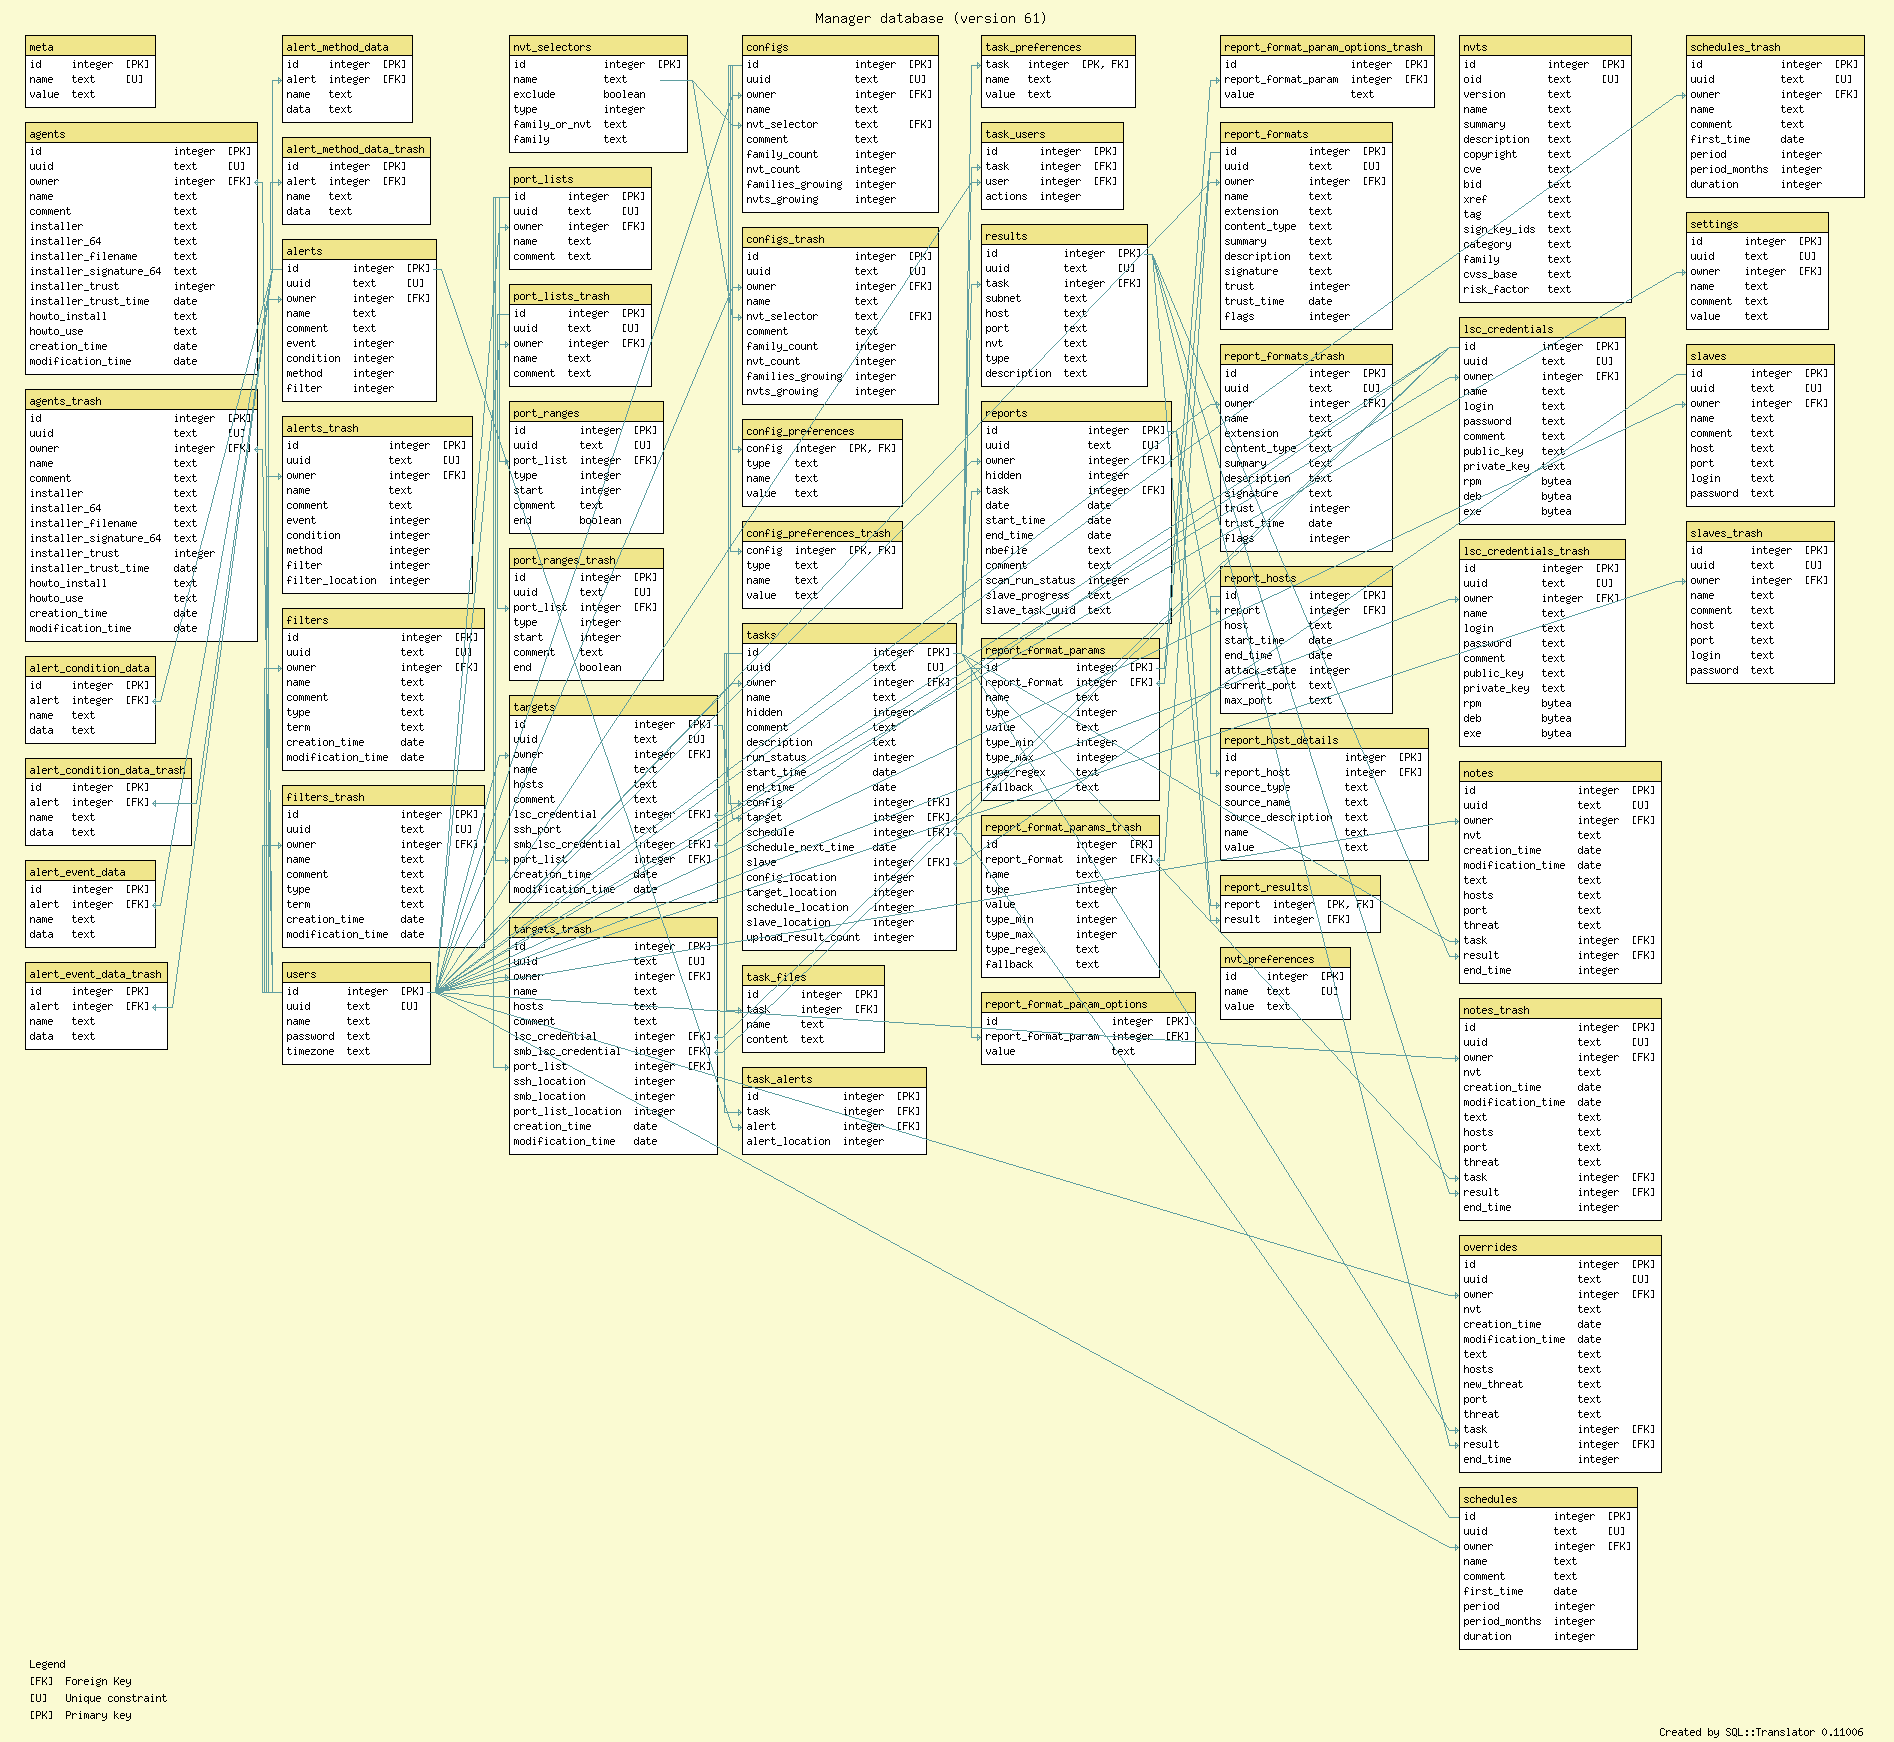
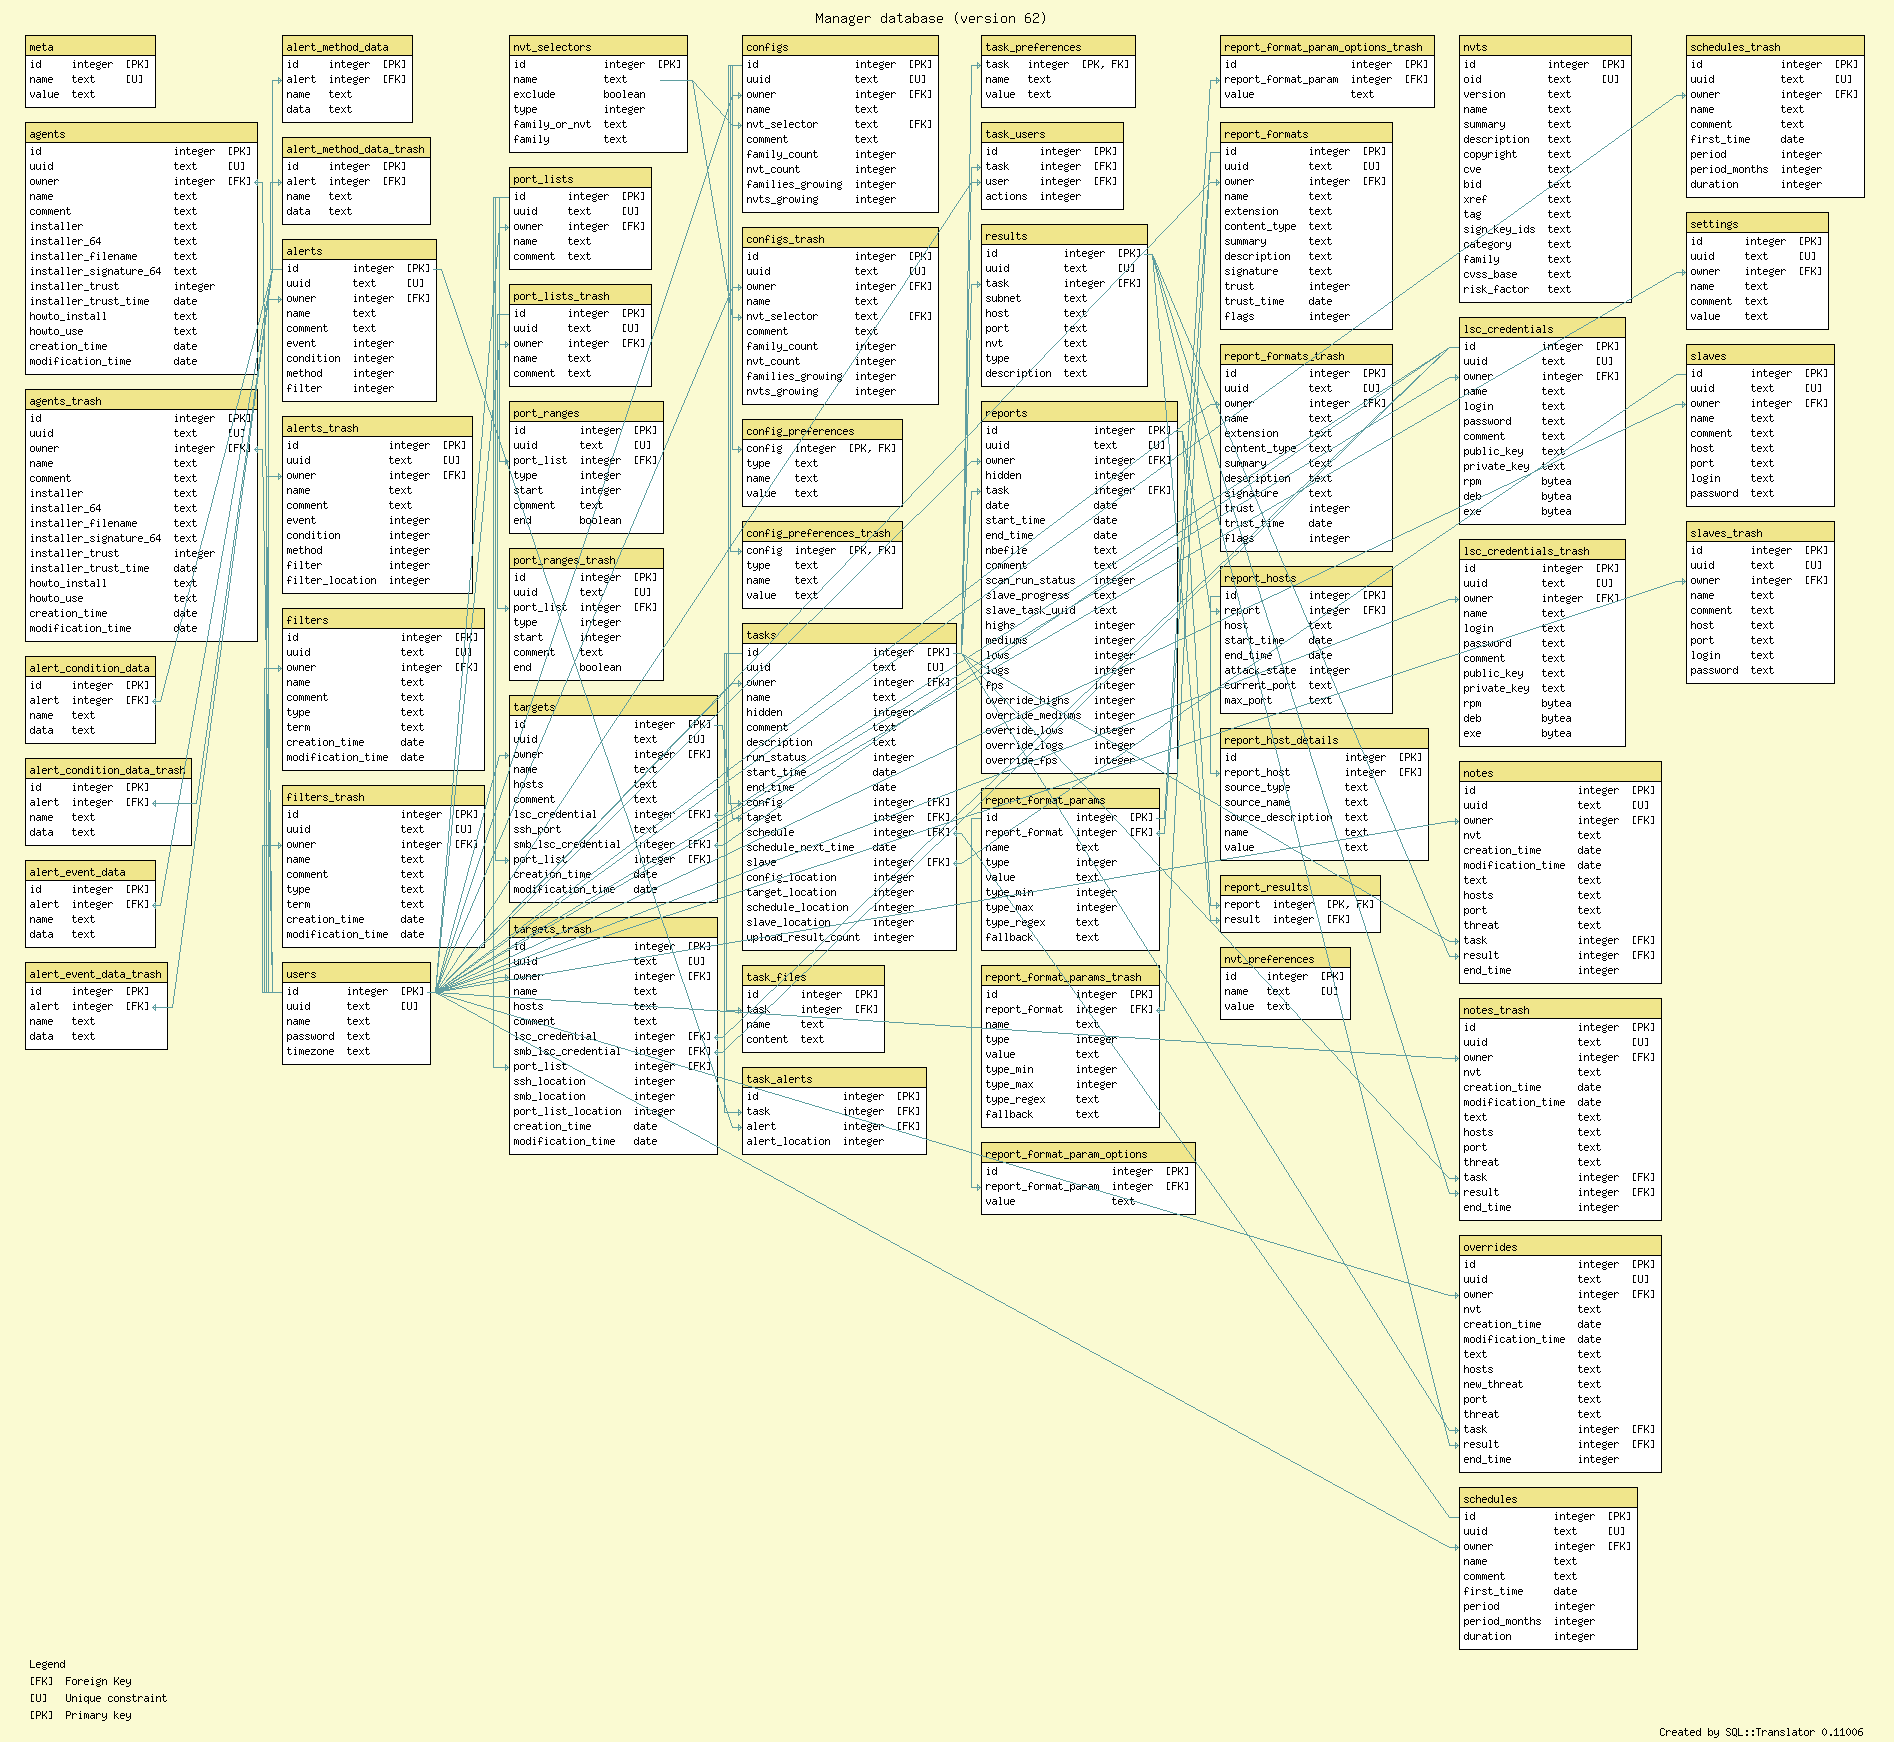
Add simple report count caching.  Hence increase database version to 62. 	Add database migration from version 61 to 62.
* CMakeLists.txt (OPENVASMD_DATABASE_VERSION): Increase to 62.

	* src/manage_sql.c (create_tables): Add cache columns to reports.
	(migrate_61_to_62): New function.
	(migrators): Add migrate_61_to_62.
	(init_manage, make_report): Init report cache columns.
	(reports_clear_count_cache, report_cache_counts): New functions.
	(set_scan_end_time_otp): Cache report counts.
	(report_counts_id_filt): In the "all" case try to read the counts from
	the cache, and store counts in cache after counting.
	(create_override, modify_override): Clear cached override counts in
	report.

	* doc/db_postgres.sql (reports): Add cache fields.

	* doc/db.png: Update from source.

git-svn-id: svn+ssh://scm.wald.intevation.org/openvas/trunk/openvas-manager@14289 423fd1db-d629-0410-8442-d21db03e70f4

Changed region(s): [[0.4984, 0.248, 0.6542, 0.713]]

diff --git a/src/manage_sql.c b/src/manage_sql.c
@@ -1297,7 +1297,7 @@ create_tables ()
   sql ("CREATE TABLE IF NOT EXISTS report_results (id INTEGER PRIMARY KEY, report INTEGER, result INTEGER);");
   sql ("CREATE INDEX IF NOT EXISTS report_results_by_report ON report_results (report);");
   sql ("CREATE INDEX IF NOT EXISTS report_results_by_result ON report_results (result);");
-  sql ("CREATE TABLE IF NOT EXISTS reports (id INTEGER PRIMARY KEY, uuid, owner INTEGER, hidden INTEGER, task INTEGER, date INTEGER, start_time, end_time, nbefile, comment, scan_run_status INTEGER, slave_progress, slave_task_uuid);");
+  sql ("CREATE TABLE IF NOT EXISTS reports (id INTEGER PRIMARY KEY, uuid, owner INTEGER, hidden INTEGER, task INTEGER, date INTEGER, start_time, end_time, nbefile, comment, scan_run_status INTEGER, slave_progress, slave_task_uuid, highs, mediums, lows, logs, fps, override_highs, override_mediums, override_lows, override_logs, override_fps);");
   sql ("CREATE TABLE IF NOT EXISTS results (id INTEGER PRIMARY KEY, uuid, task INTEGER, subnet, host, port, nvt, type, description)");
   sql ("CREATE INDEX IF NOT EXISTS results_by_host ON results (host);");
   sql ("CREATE INDEX IF NOT EXISTS results_by_task ON results (task);");
@@ -6031,6 +6031,52 @@ migrate_60_to_61 ()
 }
 
 /**
+ * @brief Migrate the database from version 61 to version 62.
+ *
+ * @return 0 success, -1 error.
+ */
+static int
+migrate_61_to_62 ()
+{
+  sql ("BEGIN EXCLUSIVE;");
+
+  /* Ensure that the database is currently version 61. */
+
+  if (manage_db_version () != 61)
+    {
+      sql ("ROLLBACK;");
+      return -1;
+    }
+
+  /* Update the database. */
+
+  /** @todo ROLLBACK on failure. */
+
+  /* The reports table got count cache columns. */
+
+  sql ("ALTER TABLE reports ADD COLUMN highs;");
+  sql ("ALTER TABLE reports ADD COLUMN mediums;");
+  sql ("ALTER TABLE reports ADD COLUMN lows;");
+  sql ("ALTER TABLE reports ADD COLUMN logs;");
+  sql ("ALTER TABLE reports ADD COLUMN fps;");
+  sql ("ALTER TABLE reports ADD COLUMN override_highs;");
+  sql ("ALTER TABLE reports ADD COLUMN override_mediums;");
+  sql ("ALTER TABLE reports ADD COLUMN override_lows;");
+  sql ("ALTER TABLE reports ADD COLUMN override_logs;");
+  sql ("ALTER TABLE reports ADD COLUMN override_fps;");
+
+  sql ("UPDATE reports SET highs = -1, override_highs = -1;");
+
+  /* Set the database version to 62. */
+
+  set_db_version (62);
+
+  sql ("COMMIT;");
+
+  return 0;
+}
+
+/**
  * @brief Array of database version migrators.
  */
 static migrator_t database_migrators[]
@@ -6096,6 +6142,7 @@ static migrator_t database_migrators[]
     {59, migrate_58_to_59},
     {60, migrate_59_to_60},
     {61, migrate_60_to_61},
+    {62, migrate_61_to_62},
     /* End marker. */
     {-1, NULL}};
 
@@ -10595,11 +10642,11 @@ init_manage (GSList *log_config, int nvt_cache_mode, const gchar *database)
         {
           sql ("INSERT into reports (uuid, owner, hidden, task, comment,"
                " start_time, end_time, scan_run_status, slave_progress,"
-               " slave_task_uuid)"
+               " slave_task_uuid, highs, override_highs)"
                " VALUES ('343435d6-91b0-11de-9478-ffd71f4c6f30', NULL, 1, %llu,"
                " 'This is an example report for the help pages.',"
                " 1251236905, 1251237136,"
-               " %u, 0, '');",
+               " %u, 0, '', -1, -1);",
                task,
                TASK_STATUS_DONE);
           report = sqlite3_last_insert_rowid (task_db);
@@ -13243,6 +13290,35 @@ prognostic_report_result_count (report_host_t report_host,
 /* Reports. */
 
 /**
+ * @brief Clear cached report count.
+ *
+ * @param[in]  override  Flag for override or regular case.
+ */
+void
+reports_clear_count_cache (int override)
+{
+  if (override)
+    sql ("UPDATE reports SET override_highs = -1;");
+  else
+    sql ("UPDATE reports SET highs = -1;");
+}
+
+/**
+ * @brief Cached report counts.
+ *
+ * @param[in]  report  Report.
+ */
+void
+report_cache_counts (report_t report)
+{
+  int debugs, holes, infos, logs, warnings, false_positives;
+  report_counts_id (report, &debugs, &holes, &infos, &logs, &warnings,
+                    &false_positives, 0, NULL, 0);
+  report_counts_id (report, &debugs, &holes, &infos, &logs, &warnings,
+                    &false_positives, 0, NULL, 0);
+}
+
+/**
  * @brief Make a report.
  *
  * @param[in]  task    The task associated with the report.
@@ -13259,10 +13335,11 @@ make_report (task_t task, const char* uuid, task_status_t status)
   assert (current_credentials.uuid);
 
   sql ("INSERT into reports (uuid, owner, hidden, task, date, nbefile, comment,"
-       " scan_run_status, slave_progress, slave_task_uuid)"
+       " scan_run_status, slave_progress, slave_task_uuid, highs,"
+       " override_highs)"
        " VALUES ('%s',"
        " (SELECT ROWID FROM users WHERE users.uuid = '%s'),"
-       " 0, %llu, %i, '', '', %u, 0, '');",
+       " 0, %llu, %i, '', '', %u, 0, '', -1, -1);",
        uuid, current_credentials.uuid, task, time (NULL), status);
   report = sqlite3_last_insert_rowid (task_db);
   return report;
@@ -15499,6 +15576,8 @@ set_scan_end_time_otp (report_t report, const char* timestamp)
   else
     sql ("UPDATE reports SET end_time = NULL WHERE ROWID = %llu;",
          report);
+
+  report_cache_counts (report);
 }
 
 /**
@@ -16794,6 +16873,70 @@ report_counts_id_filt (report_t report, int* debugs, int* holes, int* infos,
 
   if (holes && infos && logs && warnings && false_positives)
     {
+      if (autofp == 0 && host == NULL && filtered_holes == NULL
+          && filtered_infos == NULL && filtered_logs == NULL
+          && filtered_warnings == NULL && filtered_false_positives == NULL)
+        {
+          /* Try get from cache. */
+
+          if (override)
+            {
+              *holes = sql_int (0, 0,
+                                "SELECT override_highs FROM reports"
+                                " WHERE ROWID = %llu",
+                                report);
+              if (*holes >= 0)
+                {
+                  *warnings = sql_int (0, 0,
+                                       "SELECT override_mediums FROM reports"
+                                       " WHERE ROWID = %llu",
+                                       report);
+                  *infos = sql_int (0, 0,
+                                    "SELECT override_lows FROM reports"
+                                    " WHERE ROWID = %llu",
+                                    report);
+                  *logs = sql_int (0, 0,
+                                   "SELECT override_logs FROM reports"
+                                   " WHERE ROWID = %llu",
+                                   report);
+                  *false_positives = sql_int (0, 0,
+                                              "SELECT override_fps FROM reports"
+                                              " WHERE ROWID = %llu",
+                                              report);
+                  return 0;
+                }
+            }
+          else
+            {
+              *holes = sql_int (0, 0,
+                                "SELECT highs FROM reports"
+                                " WHERE ROWID = %llu",
+                                report);
+              if (*holes >= 0)
+                {
+                  *warnings = sql_int (0, 0,
+                                       "SELECT mediums FROM reports"
+                                       " WHERE ROWID = %llu",
+                                       report);
+                  *infos = sql_int (0, 0,
+                                    "SELECT lows FROM reports"
+                                    " WHERE ROWID = %llu",
+                                    report);
+                  *logs = sql_int (0, 0,
+                                   "SELECT logs FROM reports"
+                                   " WHERE ROWID = %llu",
+                                   report);
+                  *false_positives = sql_int (0, 0,
+                                              "SELECT fps FROM reports"
+                                              " WHERE ROWID = %llu",
+                                              report);
+                  return 0;
+                }
+            }
+        }
+
+      /* Recalculate. */
+
       if (override
           && sql_int (0, 0,
                       "SELECT count(*)"
@@ -16811,7 +16954,7 @@ report_counts_id_filt (report_t report, int* debugs, int* holes, int* infos,
 
           sqlite3_stmt *stmt, *full_stmt;
           gchar *select, *quoted_host;
-          int ret;
+          int ret, status;
 
           /* Prepare quick inner statement. */
 
@@ -17211,6 +17354,26 @@ report_counts_id_filt (report_t report, int* debugs, int* holes, int* infos,
           cleanup_iterator (&results);
           sqlite3_finalize (stmt);
 
+          report_scan_run_status (report, &status);
+
+          if (autofp == 0 && host == NULL && status == TASK_STATUS_DONE)
+            {
+              /* Cache results. */
+              if (override)
+                sql ("UPDATE reports SET override_highs = %i,"
+                     " override_mediums = %i, override_lows = %i,"
+                     " override_logs = %i, override_fps = %i"
+                     " WHERE ROWID = %llu;",
+                     *holes, *warnings, *infos, *logs, *false_positives,
+                     report);
+              else
+                sql ("UPDATE reports SET highs = %i, mediums = %i, lows = %i,"
+                     " logs = %i, fps = %i"
+                     " WHERE ROWID = %llu;",
+                     *holes, *warnings, *infos, *logs, *false_positives,
+                     report);
+            }
+
           return 0;
         }
     }
@@ -17222,6 +17385,31 @@ report_counts_id_filt (report_t report, int* debugs, int* holes, int* infos,
   if (logs) *logs = report_count (report, "Log Message", override, host);
   if (warnings)
     *warnings = report_count (report, "Security Warning", override, host);
+
+  if (holes && infos && logs && warnings && false_positives
+      && host == NULL)
+    {
+      int status;
+
+      report_scan_run_status (report, &status);
+      if (status == TASK_STATUS_DONE)
+        {
+          /* Cache results. */
+          if (override)
+            sql ("UPDATE reports SET override_highs = %i,"
+                 " override_mediums = %i, override_lows = %i,"
+                 " override_logs = %i, override_fps = %i"
+                 " WHERE ROWID = %llu;",
+                 *holes, *warnings, *infos, *logs, *false_positives,
+                 report);
+          else
+            sql ("UPDATE reports SET highs = %i, mediums = %i, lows = %i,"
+                 " logs = %i, fps = %i"
+                 " WHERE ROWID = %llu;",
+                 *holes, *warnings, *infos, *logs, *false_positives,
+                 report);
+        }
+    }
 
   if (filtered_false_positives)
     *filtered_false_positives
@@ -34436,6 +34624,8 @@ create_override (const char* active, const char* nvt, const char* text,
   if (override)
     *override = sqlite3_last_insert_rowid (task_db);
 
+  reports_clear_count_cache (1);
+
   return 0;
 }
 
@@ -34581,6 +34771,8 @@ modify_override (override_t override, const char *active, const char* text,
   g_free (quoted_port);
   g_free (quoted_threat);
   g_free (quoted_new_threat);
+
+  reports_clear_count_cache (1);
 
   return 0;
 }
